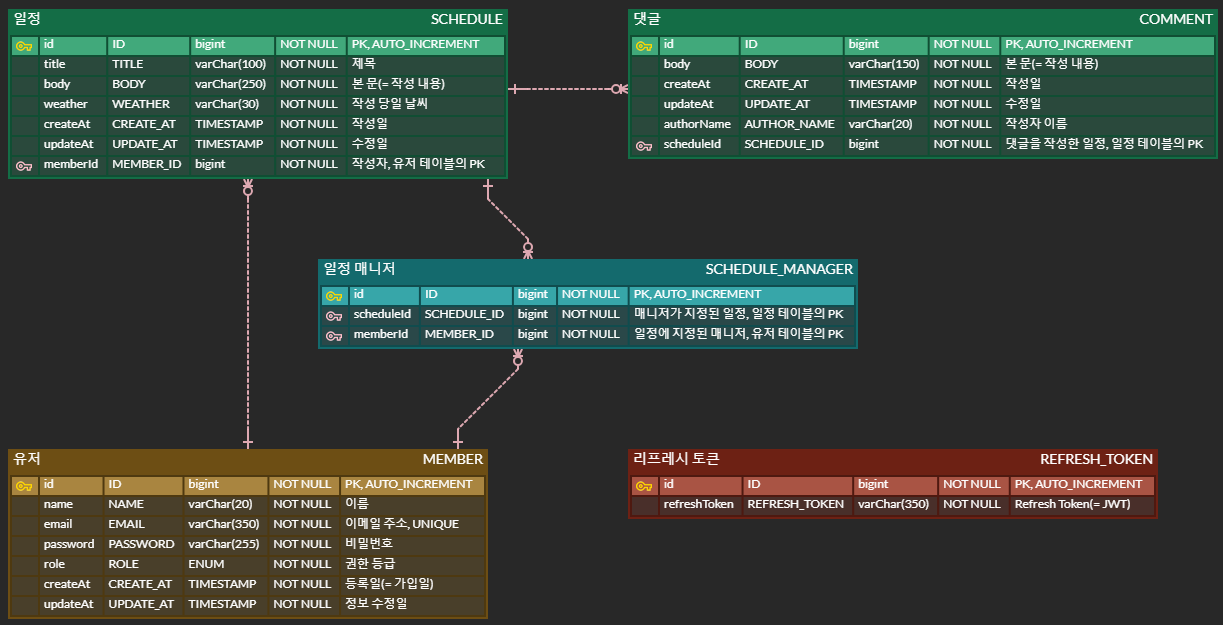
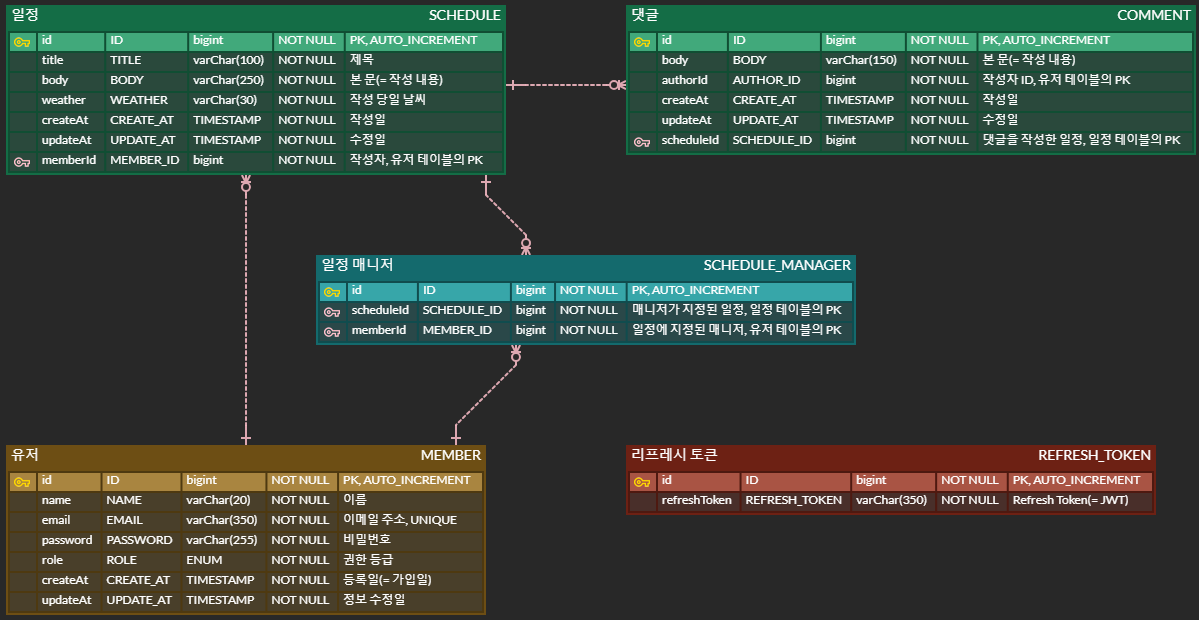
update /spring/scheduleManagementJPA/README.md

diff --git a/spring/scheduleManagementJPA/src/main/java/assigment/mastery/scheduleManagementJPA/domain/refreshToken/service/RefreshTokenService.java b/spring/scheduleManagementJPA/src/main/java/assigment/mastery/scheduleManagementJPA/domain/refreshToken/service/RefreshTokenService.java
@@ -7,6 +7,7 @@ import assigment.mastery.scheduleManagementJPA.exception.customException.NotFoun
 import assigment.mastery.scheduleManagementJPA.security.jwt.JwtUtil;
 import lombok.RequiredArgsConstructor;
 import org.springframework.stereotype.Service;
+import org.springframework.transaction.annotation.Transactional;
 
 import static assigment.mastery.scheduleManagementJPA.exception.enums.ExceptionCode.NOT_FOUND_REFRESH_TOKEN;
 
@@ -16,6 +17,7 @@ public class RefreshTokenService {
     private final RefreshTokenRepository refreshTokenRepository;
     private final JwtUtil jwtUtil;
 
+    @Transactional(readOnly = true)
     public ResponseReissueToken reissue(String refreshToken, Member member) {
         refreshTokenRepository.findByRefreshToken(refreshToken)
                 .orElseThrow(() -> new NotFoundEntityException(NOT_FOUND_REFRESH_TOKEN));

diff --git a/spring/scheduleManagementJPA/README.md b/spring/scheduleManagementJPA/README.md
@@ -1,8 +1,42 @@
+# 목차
+1. [프로젝트 설명](#project---schedule-management)
+2. [요구사항](#요구사항)
+3. [API 명세서](#api-명세서)
+4. [ERD](#erd)
+5. [SQL](#sql)
+6. [프로젝트 관련 포스팅](#구현-및-트러블-슈팅-관련-포스팅)
+<br/><br/><br/>
+
 # Project - Schedule Management
 부트캠프 `CH 3` 에서 학습한 `Spring` 을 토대로 구현한 `일정 관리 앱` 프로젝트 아래와 같은 목표가 있다.
 - `JPA` 의 주요 개념을 이해하고, 애플리케이션에 적용하는 방법 숙달
 - `인증 및 인가` 에 대한 개념을 이해하고, `JWT` 을 사용해 애플리케이션의 `보안 및 접근` 을 제어하는 방법 숙달
 - `RestTemplate` 을 사용해 `외부 자원` 과 상호작용하는 방법을 숙달
+
+## 개발 환경
+- IntelliJ
+- Postman
+- GitHub
+<br/><br/>
+
+## 사용 기술
+### 주요 프레임워크 및 라이브러리
+- Java 17 Amazon Corretto
+- Spring Boot 3.3.4
+- Spring Web
+- Spring Data JPA
+- validation
+- bcrypt
+- Lombok
+- JWT
+<br/>
+
+### Build tool
+- Gradle
+<br/>
+
+### DB
+- MySQL
 <br/><br/><br/>
 
 # 요구사항
@@ -19,9 +53,9 @@
 
 ## 필수 기능
 ### Lv.0 - API 명세서 및 ERD 작성
-- [ ] : `README.md` 에 `API 명세서` 작성
-- [ ] : `README.md` 에 `ERD` 첨부
-- [ ] : `schedule.sql` 에 프로젝트에 사용되는 `DB(shcema) 및 Table` 생성 쿼리 작성
+- [x] : `README.md` 에 `API 명세서` 작성
+- [x] : `README.md` 에 `ERD` 첨부
+- [x] : `schedule.sql` 에 프로젝트에 사용되는 `DB(shcema) 및 Table` 생성 쿼리 작성
 <br/>
 
 ### Lv.1 - 일정 CRUD
@@ -118,25 +152,26 @@
 <br/>
 
 ## 도전 기능
-|   API    | Method |        Request URL         |                                                     Request Body                                                     |   HttpStatus   |                                                                                   Response Body                                                                                    |
-|:--------:|:------:|:--------------------------:|:--------------------------------------------------------------------------------------------------------------------:|:--------------:|:----------------------------------------------------------------------------------------------------------------------------------------------------------------------------------:|
-|  회원 가입   |  POST  |        /member/join        |                             json { "name" : "이름", "email" : "이메일", "password" : "비밀번호" }                             |  201 Created   | json { "member" : { "id" : "유저 ID", "name" : "이름", "email" : "이메일", "createAt" : "등록일", "updateAt" : "수정일" }, "token" : { "accessToken" : "엑세스 토큰", "refreshToken" : "리프레시 토큰" } } |
-|   로그인    |  POST  |       /member/logIn        |                                                          -                                                           |     200 OK     | json { "member" : { "id" : "유저 ID", "name" : "이름", "email" : "이메일", "createAt" : "등록일", "updateAt" : "수정일" }, "token" : { "accessToken" : "엑세스 토큰", "refreshToken" : "리프레시 토큰" } } |
-|   로그아웃   |  POST  |       /member/logOut       |                                                          -                                                           | 204 No Content |                                                                                         -                                                                                          |
-|  회원 조회   |  GET   |     /member/{memberId}     |                                                          -                                                           |     200 OK     |                                          json { "id" : "유저 ID", "name" : "이름", "email" : "이메일", "createAt" : "등록일", "updateAt" : "수정일" }                                           |
-| 회원 목록 조회 |  GET   |  /member/search-condition  |                                                          -                                                           |     200 OK     |                              json { "memberList" : { "id" : "유저 ID", "name" : "이름", "email" : "이메일", "createAt" : "등록일", "updateAt" : "수정일" }, ... }                               |
-| 회원 정보 수정 |  PUT   |          /member           |                                                json { "name" : "이름" }                                                | 204 No Content |                                                                                         -                                                                                          |
-|  유저 삭제   | DELETE |          /member           |                                                          -                                                           | 204 No Content |                                                                                         -                                                                                          |
-|  일정 생성   |  POST  |         /schedule          | json { "author" : "작성자 이름", "title" : "일정 제목", "body" : "일정 본문", "scheduleManagers" : ["매니저 이름1", "매니저 이름2", ... ] } |  201 Created   |                          json { "id" : "일정 ID", "author" : "작성자 이름", "title" : "일정 제목", "body" : "일정 본문", "createAt" : "일정 생성일", "updateAt" : "일정 수정일" }                           |
-|  일정 조회   |  GET   |   /schedule/{scheduleId}   |                                                          -                                                           |     200 OK     |                          json { "id" : "일정 ID", "author" : "작성자 이름", "title" : "일정 제목", "body" : "일정 본문", "createAt" : "일정 생성일", "updateAt" : "일정 수정일" }                           |
-| 일정 목록 조회 |  GET   | /schedule/search-condition |                                                          -                                                           |     200 OK     |             json { "scheduleList" : { "id" : "일정 ID", "author" : "작성자 이름", "title" : "일정 제목", "body" : "일정 본문", "createAt" : "일정 생성일", "updateAt" : "일정 수정일" }, ... }              |
-|  일정 수정   |  PUT   |   /schedule/{scheduleId}   |                                     json { "title" : "일정 제목", "body" : "일정 본문" }                                     | 204 No Content |                                                                                         -                                                                                          |
-|  일정 삭제   | DELETE |   /schedule/{scheduleId}   |                                                          -                                                           | 204 No Content |                                                                                         -                                                                                          |
-|  댓글 생성   |  POST  |   /comment/{scheduleId}    |                                    json { body" : "댓글 본문", "author" : "작성자 이름" }                                     |  201 Created   |                        json { "id" : "댓글 ID", "body" : "댓글 본문", "createAt" : "댓글 작성일", "updateAt" : "댓글 수정일", "author" : "작성자 이름", "scheduleId" : "일정 ID" }                        |
-|  댓글 조회   |  GET   |    /comment/{commentId}    |                                                          -                                                           |     200 OK     |                        json { "id" : "댓글 ID", "body" : "댓글 본문", "createAt" : "댓글 작성일", "updateAt" : "댓글 수정일", "author" : "작성자 이름", "scheduleId" : "일정 ID" }                        |
-| 댓글 목록 조회 |  GET   | /comment/search-condition  |                                                          -                                                           |     200 OK     |           json { "commentList" : { "id" : "댓글 ID", "body" : "댓글 본문", "createAt" : "댓글 작성일", "updateAt" : "댓글 수정일", "author" : "작성자 이름", "scheduleId" : "일정 ID" }, ... }            |
-|  댓글 수정   |  PUT   |    /comment/{commentId}    |                                              json { "body" : "댓글 본문" }                                               | 204 No Content |                                                                                         -                                                                                          |
-|  댓글 삭제   | DELETE |    /comment/{commentId}    |                                                          -                                                           | 204 No Content |                                                                                         -                                                                                          |
+|       API        | Method |        Request URL         |        Request Header         |                                          Request Body                                           |   HttpStatus   |                                                                                                            Response Body                                                                                                            |
+|:----------------:|:------:|:--------------------------:|:-----------------------------:|:-----------------------------------------------------------------------------------------------:|:--------------:|:-----------------------------------------------------------------------------------------------------------------------------------------------------------------------------------------------------------------------------------:|
+|      회원 가입       |  POST  |        /member/join        |               -               |                  json { "name" : "이름", "email" : "이메일", "password" : "비밀번호" }                   |  201 Created   |                         json { "member" : { "id" : "유저 ID", "name" : "이름", "email" : "이메일", "createAt" : "등록일", "updateAt" : "수정일" }, "token" : { "accessToken" : "엑세스 토큰", "refreshToken" : "리프레시 토큰" } }                          |
+|       로그인        |  POST  |       /member/logIn        |               -               |                          json { "email" : "이메일", "password" : "비밀번호" }                          |     200 OK     |                         json { "member" : { "id" : "유저 ID", "name" : "이름", "email" : "이메일", "createAt" : "등록일", "updateAt" : "수정일" }, "token" : { "accessToken" : "엑세스 토큰", "refreshToken" : "리프레시 토큰" } }                          |
+|       로그아웃       |  POST  |       /member/logOut       | Authorization : Refresh Token |                                                -                                                | 204 No Content |                                                                                                                  -                                                                                                                  |
+|      회원 조회       |  GET   |          /member           | Authorization : Access Token  |                                                -                                                |     200 OK     |                                                                   json { "id" : "유저 ID", "name" : "이름", "email" : "이메일", "createAt" : "등록일", "updateAt" : "수정일" }                                                                   |
+|     회원 목록 조회     |  GET   |  /member/search-condition  | Authorization : Access Token  |                                                -                                                |     200 OK     |                                                       json { "memberList" : { "id" : "유저 ID", "name" : "이름", "email" : "이메일", "createAt" : "등록일", "updateAt" : "수정일" }, ... }                                                       |
+|     회원 정보 수정     |  PUT   |          /member           | Authorization : Access Token  |                                     json { "name" : "이름" }                                      | 204 No Content |                                                                                                                  -                                                                                                                  |
+|      회원 삭제       | DELETE |          /member           | Authorization : Access Token  |                                                -                                                | 204 No Content |                                                                                                                  -                                                                                                                  |
+|      일정 생성       |  POST  |         /schedule          | Authorization : Access Token  | json { "title" : "일정 제목", "body" : "일정 본문", "scheduleManagers" : ["매니저 이름1", "매니저 이름2", ... ] } |  201 Created   |                           json { "id" : "일정 ID", "authorName" : "작성자 이름", "title" : "일정 제목", "body" : "일정 본문", "weather" : "날씨", "createAt" : "일정 생성일", "updateAt" : "일정 수정일", "commentCount" : "댓글 개수" }                           |
+|      일정 조회       |  GET   |   /schedule/{scheduleId}   | Authorization : Access Token  |                                                -                                                |     200 OK     |                           json { "id" : "일정 ID", "authorName" : "작성자 이름", "title" : "일정 제목", "body" : "일정 본문", "weather" : "날씨", "createAt" : "일정 생성일", "updateAt" : "일정 수정일", "commentCount" : "댓글 개수" }                           |
+|     일정 목록 조회     |  GET   | /schedule/search-condition | Authorization : Access Token  |                                                -                                                |     200 OK     | json { "scheduleList" : [ { "id" : "일정 ID", "authorName" : "작성자 이름", "title" : "일정 제목", "body" : "일정 본문", "weather" : "날씨", "createAt" : "일정 생성일", "updateAt" : "일정 수정일", "commentCount" : "댓글 개수" }, ... ], "pageable" : { ... } } |
+|      일정 수정       |  PUT   |   /schedule/{scheduleId}   | Authorization : Access Token  |                          json { "title" : "일정 제목", "body" : "일정 본문" }                           | 204 No Content |                                                                                                                  -                                                                                                                  |
+|      일정 삭제       | DELETE |   /schedule/{scheduleId}   | Authorization : Access Token  |                                                -                                                | 204 No Content |                                                                                                                  -                                                                                                                  |
+|      댓글 생성       |  POST  |   /comment/{scheduleId}    | Authorization : Access Token  |                                    json { body" : "댓글 본문" }                                     |  201 Created   |                                                json { "id" : "댓글 ID", "body" : "댓글 본문", "author" : "작성자 이름", "createAt" : "댓글 작성일", "updateAt" : "댓글 수정일", "scheduleId" : "일정 ID" }                                                 |
+|      댓글 조회       |  GET   |    /comment/{commentId}    | Authorization : Access Token  |                                                -                                                |     200 OK     |                                                json { "id" : "댓글 ID", "body" : "댓글 본문", "author" : "작성자 이름", "createAt" : "댓글 작성일", "updateAt" : "댓글 수정일", "scheduleId" : "일정 ID" }                                                 |
+|     댓글 목록 조회     |  GET   | /comment/search-condition  | Authorization : Access Token  |                                                -                                                |     200 OK     |                                  json { "commentList" : [ { "id" : "댓글 ID", "body" : "댓글 본문", "author" : "작성자 이름", "createAt" : "댓글 작성일", "updateAt" : "댓글 수정일", "scheduleId" : "일정 ID" }, ... ] }                                  |
+|      댓글 수정       |  PUT   |    /comment/{commentId}    | Authorization : Access Token  |                                    json { "body" : "댓글 본문" }                                    | 204 No Content |                                                                                                                  -                                                                                                                  |
+|      댓글 삭제       | DELETE |    /comment/{commentId}    | Authorization : Access Token  |                                                -                                                | 204 No Content |                                                                                                                  -                                                                                                                  |
+| Access Token 재발급 |  POST  |       /token/reissue       | Authorization : Refresh Token |                                                -                                                |     200 OK     |                                                                                            json { "accessToken" : "재발급한 Access Token" }                                                                                             |
 <br/><br/>
 
 # ERD
@@ -277,7 +312,7 @@ CREATE TABLE schedule (
 CREATE TABLE comment (
     id bigint not null auto_increment,
     body varChar(150) not null,
-    author_name varChar(20) not null,
+    author_id bigint not null,
     create_at timestamp not null,
     update_at timestamp not null,
     schedule_id bigint not null,
